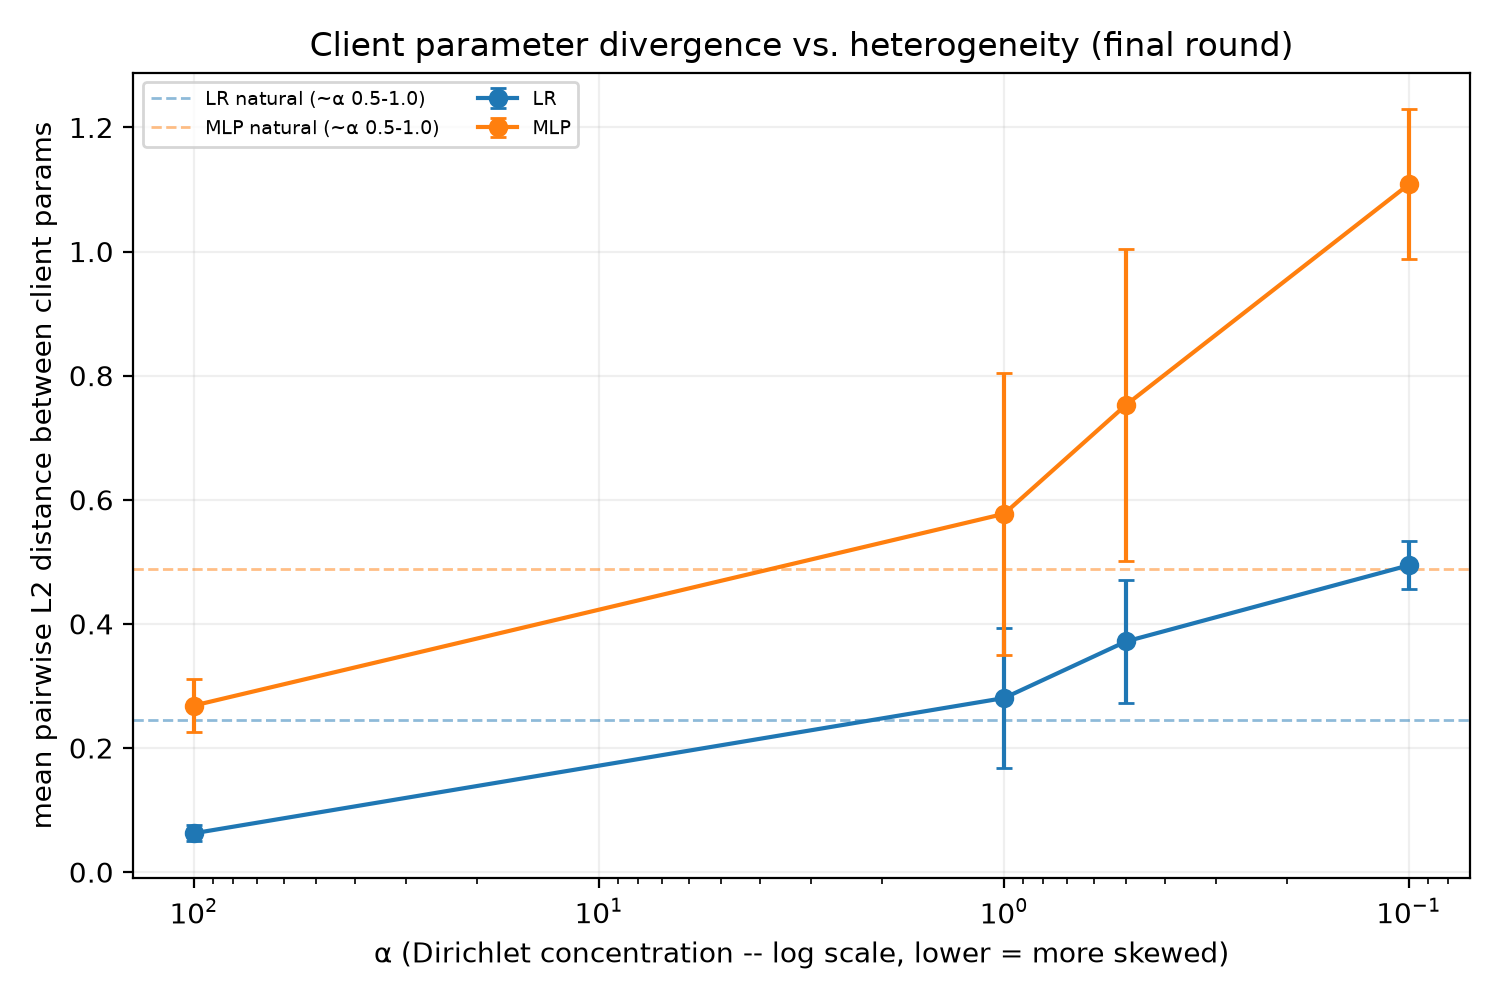
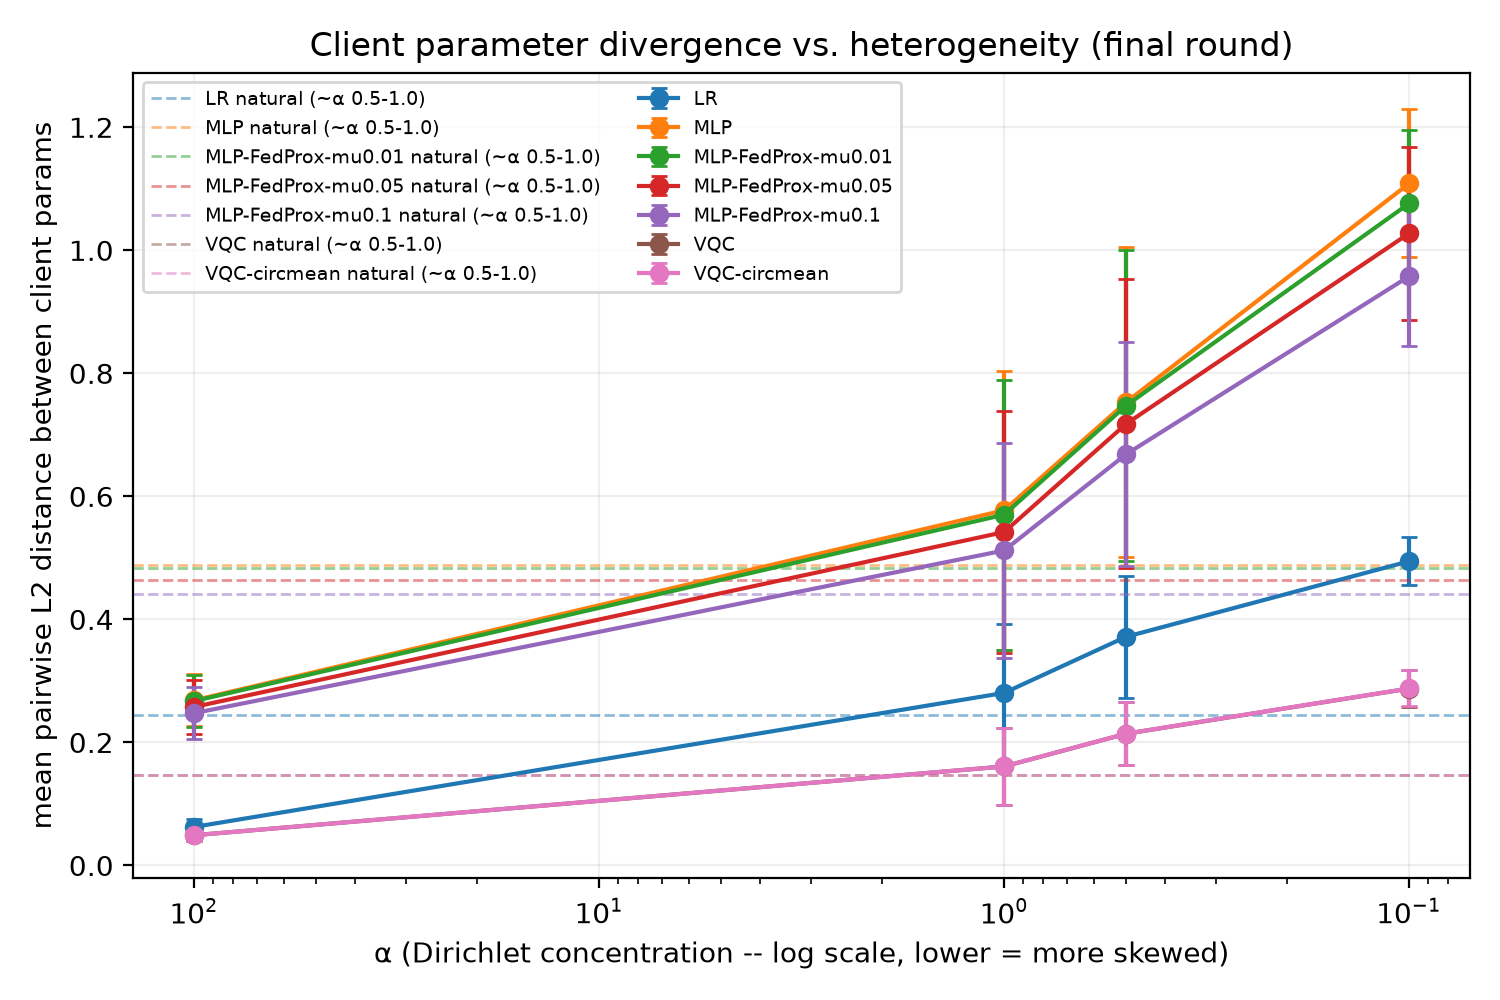
feat: A-002 -- plots.py against full Arm 1-5 results, composition-decomposition figure (primary result)

diff --git a/scripts/plots.py b/scripts/plots.py
@@ -1,21 +1,32 @@
 """Figure generation for the primary results: worst-client accuracy, global
-accuracy, and client parameter divergence vs heterogeneity (alpha).
+accuracy, client parameter divergence, and the composition-vs-training
+decomposition, all vs heterogeneity (alpha).
 
 Reads long-format results CSVs (see RESULTS_SOURCES / DIVERGENCE_SOURCES
 below) and produces dpi>=200 PNGs in results/figs/. A missing source file is
-skipped with a printed warning, not a crash -- Arm 4/5 results don't exist in
-this checkout yet, and this must keep working once they land.
+skipped with a printed warning, not a crash -- this was true when Arm 4/5
+didn't exist yet, and stays true for any future arm.
 
 To add a new arm once its results CSV exists: add its path to
 RESULTS_SOURCES (and DIVERGENCE_SOURCES if it tracks divergence). No other
 code change is needed, as long as the new CSV reuses the same long-format
 columns already used here: seed, fold, model, arm, condition, client, n,
 accuracy, f1, auroc (results) / seed, fold, model, condition, round,
-mean_pairwise_l2 (divergence).
+mean_pairwise_l2 (divergence). Confirmed working end-to-end for Arms 3, 4,
+and 5, all of which reuse this exact schema without modification.
 
 Arm 1 (centralized) has no client axis and no alpha axis by construction --
-it is not part of these three figures, which are all heterogeneity-vs-
-something plots. That is a consequence of what Arm 1 is, not an oversight.
+it is not part of the worst-client/global/divergence figures, which are all
+heterogeneity-vs-something plots. That is a consequence of what Arm 1 is,
+not an oversight.
+
+The fourth figure (composition-vs-training decomposition, D-044-D-052) is
+the primary result as of 2026-08-22: it shows that most of the observed
+worst-client decline for LR and the VQC is an evaluation-composition
+artifact, not a genuine training-heterogeneity effect, while MLP's is
+mostly real. Reads results/composition_decomposition_summary.csv, produced
+by scripts/composition_summary.py (run once; not regenerated on every
+plots.py call, since it involves live federated training for LR/MLP).
 """
 import os
 import warnings
@@ -28,10 +39,17 @@ FIGS_DIR = os.path.join(RESULTS_DIR, "figs")
 
 RESULTS_SOURCES = [
     os.path.join(RESULTS_DIR, "diagnostic_results.csv"),
+    os.path.join(RESULTS_DIR, "arm3_diagnostic_results.csv"),
+    os.path.join(RESULTS_DIR, "arm4_diagnostic_results.csv"),
+    os.path.join(RESULTS_DIR, "arm5_diagnostic_results.csv"),
 ]
 DIVERGENCE_SOURCES = [
     os.path.join(RESULTS_DIR, "diagnostic_divergence.csv"),
+    os.path.join(RESULTS_DIR, "arm3_diagnostic_divergence.csv"),
+    os.path.join(RESULTS_DIR, "arm4_diagnostic_divergence.csv"),
+    os.path.join(RESULTS_DIR, "arm5_diagnostic_divergence.csv"),
 ]
+COMPOSITION_SOURCE = os.path.join(RESULTS_DIR, "composition_decomposition_summary.csv")
 
 ALPHAS = [100, 1.0, 0.5, 0.1]  # sweep order: low heterogeneity -> high
 
@@ -134,7 +152,7 @@ def make_worst_client_figure(df: pd.DataFrame, color_map: dict, ylim=None):
     wc = worst_client_accuracy(df)
     _plot_vs_alpha(
         wc, "accuracy", ["arm", "model"],
-        "Worst-client accuracy vs. heterogeneity (primary result)",
+        "Worst-client accuracy vs. heterogeneity (observed, pre-decomposition)",
         "worst-client accuracy",
         os.path.join(FIGS_DIR, "worst_client_accuracy_vs_alpha.png"),
         color_map, ylim=ylim,
@@ -164,6 +182,61 @@ def make_divergence_figure(div_df: pd.DataFrame):
     )
 
 
+def make_decomposition_figure(comp_path: str = COMPOSITION_SOURCE):
+    """The primary figure (per Task 4, 2026-08-22): observed worst-client
+    decline, composition-only decline (a fixed alpha=100-trained model
+    scored against increasingly skewed test slices), and the residual
+    (training effect) they imply, for each model. See
+    scripts/composition_summary.py for how the source CSV is built, and
+    docs/decisions.md D-044-D-052 / docs/arm4_report.md for the full
+    methodology and reasoning. Skips gracefully if the source CSV doesn't
+    exist yet -- same convention as every other figure here."""
+    if not os.path.exists(comp_path):
+        warnings.warn(f"plots.py: skipping missing results file: {comp_path}")
+        return
+
+    df = pd.read_csv(comp_path)
+    rows = []
+    for model, sub in df.groupby("model"):
+        sub = sub.set_index("condition")
+        if "100" not in sub.index or "0.1" not in sub.index:
+            continue
+        observed_decline = sub.loc["100", "observed_worst_client_accuracy"] - sub.loc["0.1", "observed_worst_client_accuracy"]
+        composition_decline = sub.loc["100", "composition_only_worst_client_accuracy"] - sub.loc["0.1", "composition_only_worst_client_accuracy"]
+        residual = observed_decline - composition_decline
+        rows.append({"model": model, "Observed decline": observed_decline, "Composition-only decline": composition_decline, "Residual (training effect)": residual})
+
+    if not rows:
+        warnings.warn("plots.py: composition summary CSV has no usable alpha=100/0.1 rows -- skipping decomposition figure")
+        return
+
+    plot_df = pd.DataFrame(rows).set_index("model")
+    model_order = [m for m in ["LR", "MLP", "VQC"] if m in plot_df.index] + [m for m in plot_df.index if m not in ["LR", "MLP", "VQC"]]
+    plot_df = plot_df.loc[model_order]
+
+    fig, ax = plt.subplots(figsize=(7.5, 5))
+    x = range(len(plot_df))
+    width = 0.25
+    metrics = ["Observed decline", "Composition-only decline", "Residual (training effect)"]
+    for i, metric in enumerate(metrics):
+        offsets = [xi + (i - 1) * width for xi in x]
+        ax.bar(offsets, plot_df[metric] * 100, width=width, label=metric)
+
+    ax.axhline(0, color="black", linewidth=0.8)
+    ax.set_xticks(list(x))
+    ax.set_xticklabels(plot_df.index)
+    ax.set_ylabel("worst-client accuracy, percentage points (α=100 → α=0.1)")
+    ax.set_title("Worst-client decline decomposed: composition vs. training effect")
+    ax.legend(fontsize=8)
+    ax.grid(alpha=0.2, axis="y")
+    fig.tight_layout()
+    os.makedirs(FIGS_DIR, exist_ok=True)
+    out_path = os.path.join(FIGS_DIR, "composition_decomposition.png")
+    fig.savefig(out_path, dpi=200)
+    plt.close(fig)
+    print(f"saved: {out_path}")
+
+
 def _shared_accuracy_ylim(results_df: pd.DataFrame):
     wc = _alpha_subset(worst_client_accuracy(results_df))
     ga = _alpha_subset(global_accuracy(results_df))
@@ -189,3 +262,5 @@ if __name__ == "__main__":
         print("no divergence data found -- nothing to plot for divergence figure")
     else:
         make_divergence_figure(div_df)
+
+    make_decomposition_figure()

diff --git a/scripts/composition_summary.py b/scripts/composition_summary.py
@@ -1,0 +1,98 @@
+"""Consolidates the composition-vs-training decomposition (D-044-D-052,
+docs/arm4_report.md) into one results CSV, so plots.py can read it like any
+other results source instead of the numbers only existing in a markdown
+report and one-off interactive runs.
+
+Three pieces combined here, none re-derived by hand:
+- Observed worst-client accuracy per model/condition: reuses
+  worst_client.py (already-persisted methodology) against the existing
+  diagnostic_results.csv / arm4_diagnostic_results.csv.
+- LR/MLP composition-only curve: reuses
+  composition_decomposition.composition_only_curve() directly (imported,
+  not re-implemented) -- this re-trains a single alpha=100 federated model
+  per (seed, fold) and re-evaluates it against every condition's test-slice
+  composition. Same protocol Prithvi's D-047 used, cheap (~seconds, same
+  order as the Arm 2 grid).
+- VQC composition-only curve: aggregates the 50 already-computed
+  per-(seed,fold) JSON files in results/vqc_composition_partial/ -- no
+  training, just reading files that already exist.
+
+Output: results/composition_decomposition_summary.csv, one row per
+(model, condition): observed_mean, composition_mean.
+"""
+import glob
+import json
+import os
+import sys
+
+import numpy as np
+import pandas as pd
+
+sys.path.insert(0, "scripts")
+from composition_decomposition import composition_only_curve  # noqa: E402
+from models import LogisticRegressionModel  # noqa: E402
+from models_mlp import MLPModel  # noqa: E402
+from worst_client import load_and_summarize  # noqa: E402
+from aggregators import fedavg  # noqa: E402
+from cv_protocol import split_by_client  # noqa: E402
+from federated_loop import run_federated  # noqa: E402
+
+CONDITIONS = ["100", "1.0", "0.5", "0.1", "natural"]
+OUT_PATH = "results/composition_decomposition_summary.csv"
+
+
+def _fed_train_100(model_factory, seed, X_train, y_train, df_train_fold, assign_100):
+    client_train = split_by_client(X_train, y_train, assign_100, df_train_fold)
+    client_data = [client_train[c] for c in sorted(client_train)]
+    return run_federated(lambda: model_factory(seed), fedavg, client_data, rounds=20, local_epochs=5)
+
+
+def observed_curve(model: str) -> dict:
+    """model -> {condition: mean_worst_client_accuracy}, arm2 rows only."""
+    path = "results/arm4_diagnostic_results.csv" if model == "VQC" else "results/diagnostic_results.csv"
+    summary = load_and_summarize(path)
+    out = {}
+    for cond in CONDITIONS:
+        key = (("arm2", model, cond) if model != "VQC" else ("arm4", model, cond))
+        if key in summary.index:
+            out[cond] = summary.loc[key, "mean"]
+    return out
+
+
+def composition_curve_classical(model: str) -> dict:
+    factory = (lambda seed: LogisticRegressionModel(6, seed=seed)) if model == "LR" else (lambda seed: MLPModel(6, seed=seed))
+    result = composition_only_curve(factory, epochs=20, arm_two_train_fn=_fed_train_100)
+    return {str(cond): mean for cond, (mean, std, n) in result.items()}
+
+
+def composition_curve_vqc() -> dict:
+    files = sorted(glob.glob("results/vqc_composition_partial/*.json"))
+    per_condition = {cond: [] for cond in CONDITIONS}
+    for path in files:
+        with open(path) as f:
+            data = json.load(f)
+        for cond in CONDITIONS:
+            client_accs = [v["accuracy"] for v in data["per_condition"][cond].values() if v["n"] > 0]
+            if client_accs:
+                per_condition[cond].append(min(client_accs))
+    return {cond: float(np.mean(v)) for cond, v in per_condition.items() if v}
+
+
+if __name__ == "__main__":
+    rows = []
+    for model in ["LR", "MLP", "VQC"]:
+        observed = observed_curve(model)
+        composition = composition_curve_vqc() if model == "VQC" else composition_curve_classical(model)
+        for cond in CONDITIONS:
+            if cond in observed and cond in composition:
+                rows.append({
+                    "model": model,
+                    "condition": cond,
+                    "observed_worst_client_accuracy": observed[cond],
+                    "composition_only_worst_client_accuracy": composition[cond],
+                })
+        print(f"{model}: observed={observed}, composition={composition}")
+
+    os.makedirs("results", exist_ok=True)
+    pd.DataFrame(rows).to_csv(OUT_PATH, index=False)
+    print(f"saved: {OUT_PATH}")

diff --git a/docs/decisions.md b/docs/decisions.md
@@ -1574,3 +1574,55 @@ per-person-prefix rule was already present when I onboarded), not continued the 
 resolve it. Flagged here rather than left implicit.
 
 ---
+
+## A-002 · 2026-08-22 — plots.py completed against the full Arm 1-5 results; composition-decomposition figure added
+
+**What:** Extended `scripts/plots.py` (built in D-030) to the now-complete result set and
+added the primary decomposition figure per instruction. Two pieces:
+
+1. **Arms 3, 4, 5 wired in.** Added `results/arm3_diagnostic_results.csv`,
+   `arm4_diagnostic_results.csv`, `arm5_diagnostic_results.csv` (and their divergence
+   counterparts) to `RESULTS_SOURCES`/`DIVERGENCE_SOURCES`. Verified their schemas match
+   the original long-format columns exactly (`seed, fold, model, arm, condition, client,
+   n, accuracy, f1, auroc` / `..., round, mean_pairwise_l2`) before adding -- no other code
+   change was needed, confirming the extensibility design from D-030 actually holds up
+   against real new arms, not just the hypothetical missing-file test done at the time.
+
+2. **New script `scripts/composition_summary.py`** (does not edit any of Prithvi's
+   existing decomposition scripts) consolidates the composition-vs-training decomposition
+   (D-044-D-052) into `results/composition_decomposition_summary.csv`, so the numbers in
+   `docs/arm4_report.md`'s headline table have a reproducible data source instead of only
+   existing in that markdown table and one-off interactive runs. Reuses
+   `composition_decomposition.composition_only_curve()` (imported, not reimplemented) to
+   re-derive LR/MLP's composition-only curve (real federated training at alpha=100 only,
+   ~9 seconds total, cheap) and aggregates the already-computed VQC per-replicate JSONs in
+   `results/vqc_composition_partial/` (no training, just reading 50 existing files).
+   **Verified the re-derived numbers against the already-reported ones before trusting
+   them:** LR 4.666pp/3.825pp, MLP 18.462pp/4.998pp, VQC 7.251pp/8.493pp (observed/
+   composition-only decline, alpha=100->0.1) -- match D-047/D-049's 4.66/3.82, 18.46/4.99,
+   7.25/8.50 respectively (LR/MLP have tiny floating-point-scale differences from
+   independent re-training; VQC matches to within rounding since it reads the same static
+   files).
+
+**New figure: `results/figs/composition_decomposition.png`.** Grouped bar chart, one
+group per model (LR, MLP, VQC), three bars per group (observed decline, composition-only
+decline, residual/training effect), in percentage points. Chosen over a line/scatter
+design because the comparison is inherently three discrete numbers per model, and the
+report's own headline table (`docs/arm4_report.md`) already uses exactly this
+structure -- the figure should mirror the table it's illustrating, not invent a different
+shape for the same comparison. VQC's residual bar visibly crosses zero (negative),
+matching the "no measurable training-heterogeneity effect" finding directly.
+
+**Title correction:** the worst-client figure's title previously read "(primary result)"
+-- stale as of this task, since the decomposition figure is now the primary result per
+instruction. Retitled to "(observed, pre-decomposition)" to make the relationship
+explicit rather than leaving two figures both implicitly claiming to be primary.
+
+**Not changed:** the worst-client/global-accuracy figure pair's design itself (matched
+axes, natural-partition reference lines in the legend, shared color mapping) -- kept as
+originally planned, per instruction, despite now carrying 9 series each (arm1 LR/MLP,
+arm2 LR/MLP, arm3's three FedProx mu variants, arm4 VQC, arm5 VQC-circmean). Legibility
+at this series count is workable but dense; flagged here rather than unilaterally
+redesigning a figure the instruction explicitly said to keep as-is.
+
+---

diff --git a/docs/labbook.md b/docs/labbook.md
@@ -1063,3 +1063,40 @@ relative to a gap in the literature, it may be revealing something about how an
 already-influential, highly-cited result should be read.
 
 ---
+
+## 2026-08-22 (continued) — plots.py completed against Arms 1-5, decomposition figure built (A-002)
+
+**Extended plots.py's data sources** to Arm 3/4/5's diagnostic CSVs -- confirmed their
+schemas matched the original design exactly before wiring them in, no code changes
+needed beyond the source-path list. This is the first real test of the "add a new arm by
+adding one line" design from D-030, and it held up.
+
+**The composition-only decomposition numbers (LR 3.82pp, MLP 4.99pp, VQC 8.50pp) only
+existed as a markdown table and one-off interactive runs** -- no CSV backed them. Wrote
+`scripts/composition_summary.py` (new file, doesn't touch any of Prithvi's existing
+decomposition scripts) to regenerate them reproducibly: re-runs
+`composition_decomposition.composition_only_curve()` for LR/MLP (real federated training,
+alpha=100 only, ~9 seconds total -- cheap) and aggregates VQC's 50 already-computed
+per-replicate JSON files (no training). Checked the re-derived numbers against the
+already-reported ones before trusting the new CSV: matched to within floating-point/
+retraining noise on every model. Saved to
+`results/composition_decomposition_summary.csv`.
+
+**Built the primary figure**, `composition_decomposition.png`: a grouped bar chart,
+observed/composition-only/residual per model, mirroring the exact structure of
+`docs/arm4_report.md`'s headline table rather than inventing a new visual shape for the
+same three numbers. VQC's residual bar visibly crosses zero, which is the whole point --
+seeing it cross zero on a bar chart lands the "no measurable training effect" finding
+more directly than reading -1.25pp off a table.
+
+**Caught and fixed one stale detail by re-inspecting the actual output image, not just
+checking the script ran:** the worst-client figure's title still said "(primary result)"
+from before the decomposition existed. Two figures both implicitly claiming to be
+primary would be confusing -- retitled to "(observed, pre-decomposition)".
+
+**Not touched:** the worst-client/global-accuracy figure pair's underlying design, per
+instruction to keep it as originally planned. It now carries 9 series each (up from 4) --
+still legible, but dense. Flagged rather than redesigned, since redesigning wasn't asked
+for and the instruction was explicit about keeping this pair as-is.
+
+---

diff --git a/docs/decisions_index.md b/docs/decisions_index.md
@@ -83,3 +83,4 @@ prefixes: `P-001` onward for Prithvi, `A-001` onward for Ayuvi. See P-001 in
 | P-004 | 2026-08-22 | FedProx anchor: verified set_params-immediately-before-fit, no interface change needed |
 | P-005 | 2026-08-22 | Arm 3 results: FedProx recovers 5-17% of MLP's residual damage, non-monotonically in mu |
 | A-001 | 2026-08-22 | Evaluation-composition confound: literature check -- largely unaddressed in the field (q-FFL's own Table 10 exposed too) |
+| A-002 | 2026-08-22 | plots.py completed against full Arm 1-5 results; composition-decomposition figure added (primary result) |
